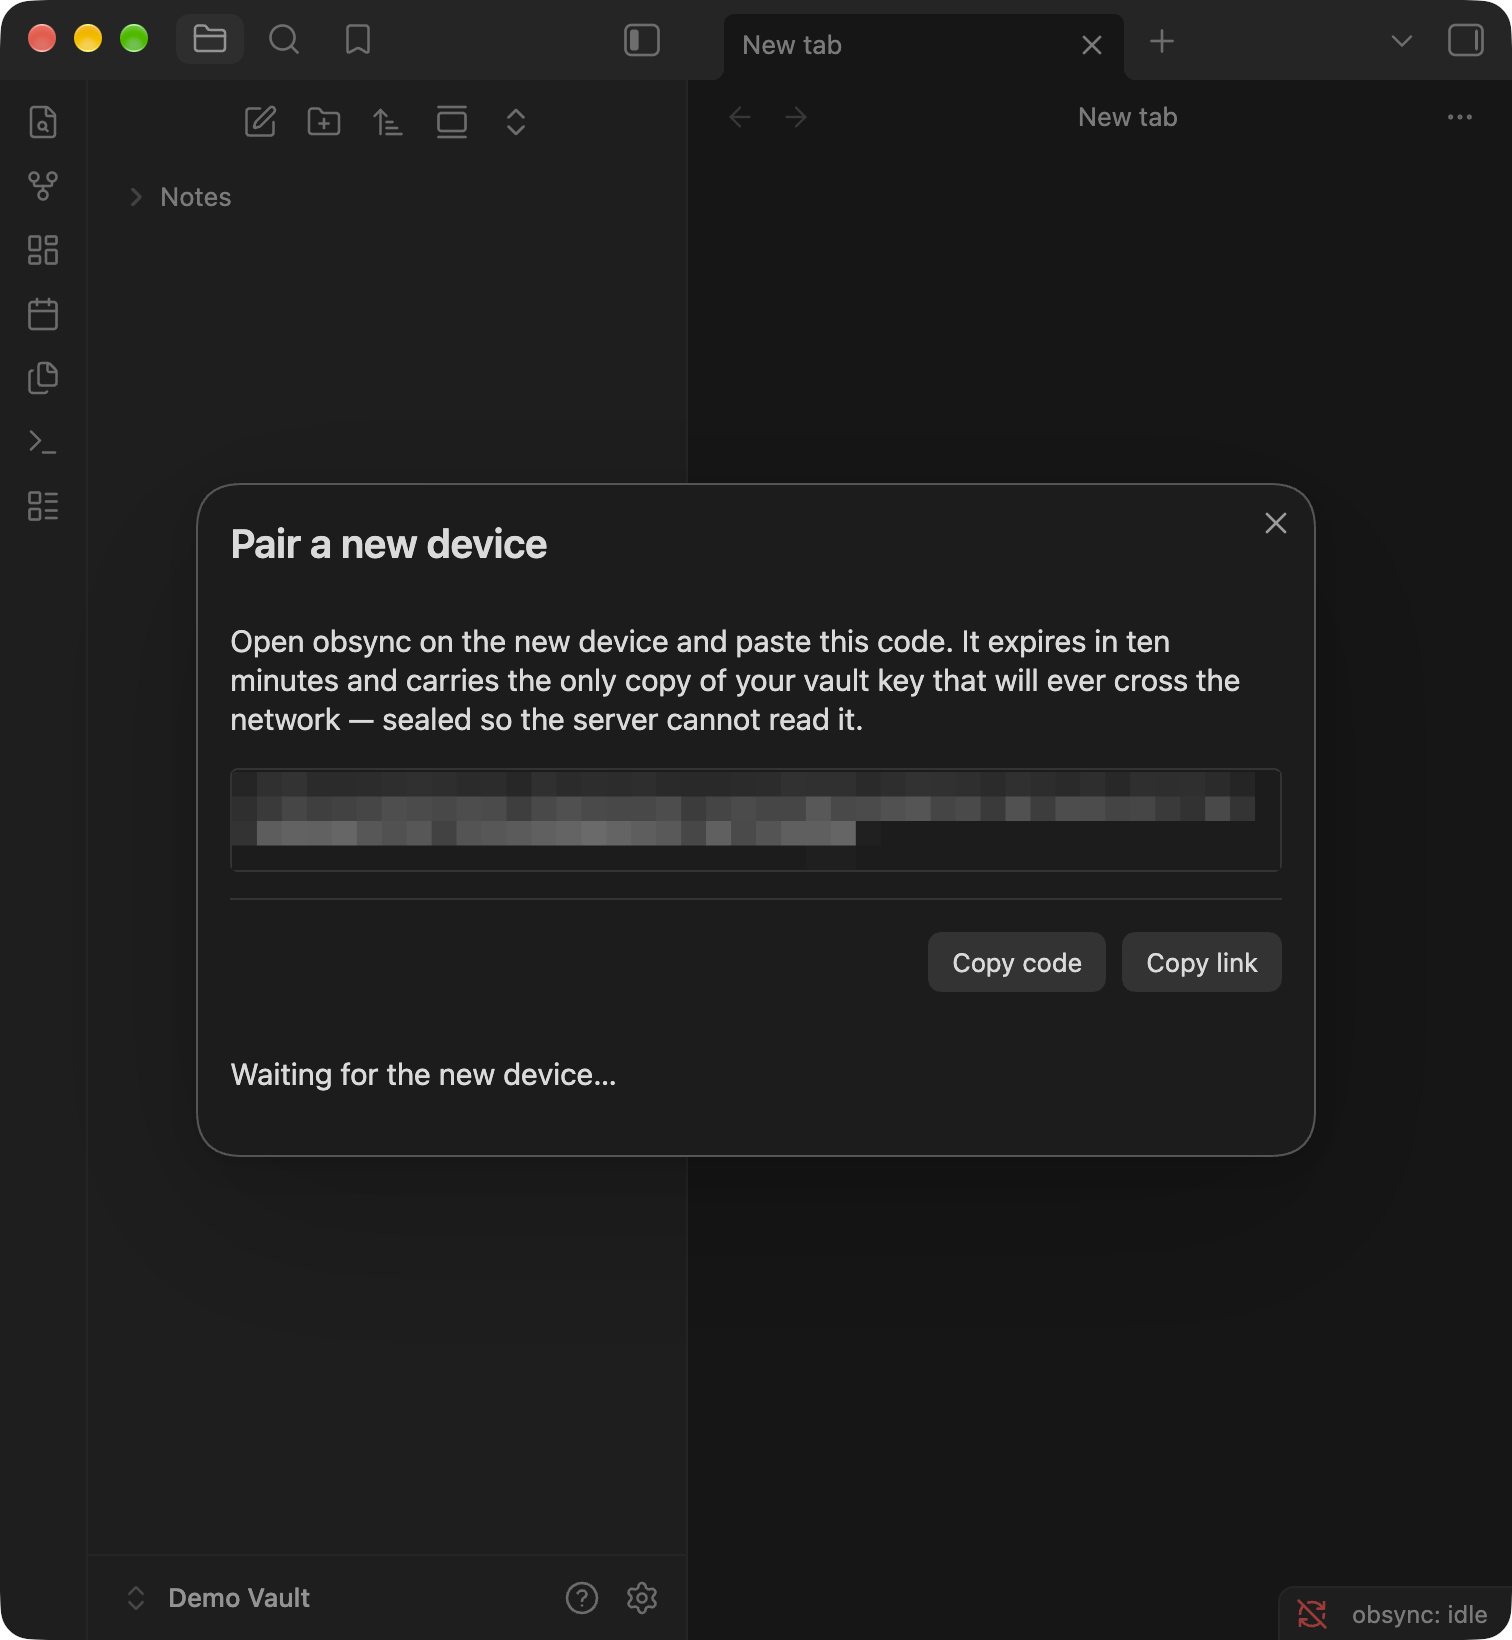
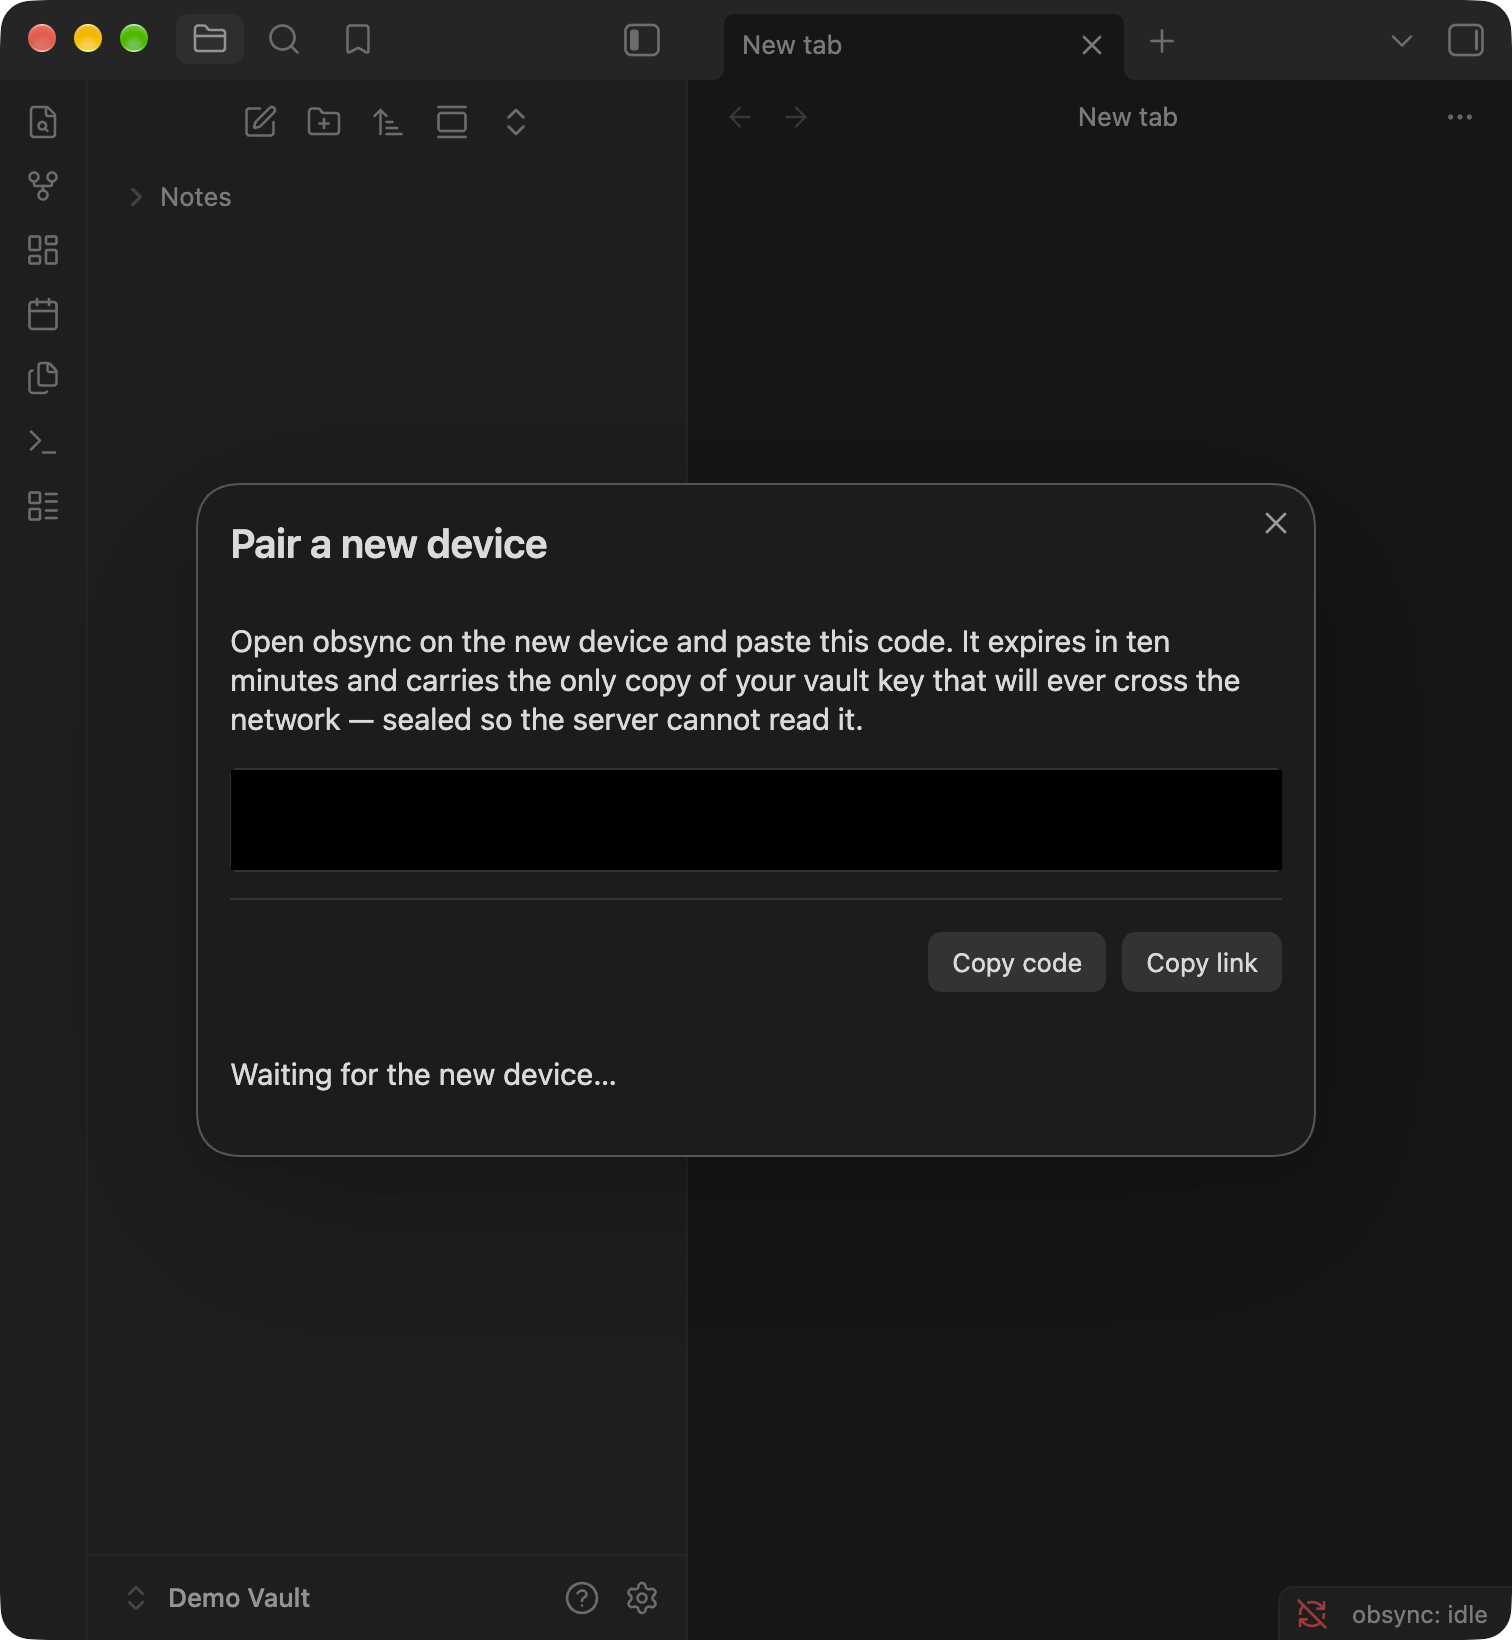
fix: complete privacy repair in legacy captures and product attribution
The replacement-head review found three older captures outside the first
repair set and personal attribution still present in product metadata.
Mask four author-name fields and replace recovery/pairing pixelation with
opaque rectangles. Preserve every capture and every visible pixel outside
the masks; verify CRCs, decoded colors and metadata-free exports. Use project
contributors in the manifest and site author fields, preserving license
attribution and the mandated Git identity. Document the remaining finding map
and the replacement-device evidence's mixed-version scope.

The complete local make check and both secret scans pass. Strict MkDocs and
output-origin checks pass in the pinned offline Linux container. All 41
committed documentation PNGs lack identifying metadata chunks. The three
masked exports were visually inspected and match across both release branches.
Production code and tests are unchanged. The rebuilt JavaScript bundle stays
7a937b63cbcf8f7bb536a45a0c40b34aeb3c066bb57817dfa99a46acd3006848.
The distributed manifest changes only its author field. Native observations
retain their original build scope; no independent approval is claimed.

Accounting: six files, +36/-4, including three PNGs.

- GPT-6

Changed region(s): [[0.1554, 0.4665, 0.8704, 0.5287]]

diff --git a/docs/validation-runs/2026-09-24-screenshot-privacy.md b/docs/validation-runs/2026-09-24-screenshot-privacy.md
@@ -38,6 +38,38 @@ python3 -I -B -m unittest discover -s scripts/ci -p 'test_capture_contract.py'
 python3 -I -B -m unittest discover -s scripts/ci -p 'test_onboarding_contract.py'
 ```
 
-This repair does not change product attribution, mandated commit identity,
-or protected history. Earlier immutable revisions retain their historical
+The initial repair did not change product attribution, mandated commit
+identity, or protected history. Earlier immutable revisions retain their historical
 bytes; current evidence links must point to this repaired revision.
+
+## Remaining inventory repair, 2026-09-25
+
+The [replacement-head review](https://github.com/snaraj/obsync/pull/133#issuecomment-5828038509)
+identified three older captures outside the original named set. Their
+observed UI and device/version scope remain unchanged:
+
+- `docs/captures/01-install-from-directory.png`: four author-name fields
+  now have opaque masks.
+- `docs/captures/03-recovery-phrase.png`: both columns of recovery material
+  now have opaque masks in place of pixelation; word numbers and verification
+  controls remain visible.
+- `docs/assets/pair-new-device.png`: the pairing-material field now has an
+  opaque mask in place of pixelation; instructions and controls remain visible.
+
+Each export contains only `IHDR`, `IDAT` and `IEND`. CRC/decode checks pass,
+every visible pixel outside the masks is unchanged, and the complete masked
+exports were visually inspected. Indexed-color captures were expanded to RGB
+without changing their displayed colors. No sensitive content was recovered.
+
+The manifest's author and the documentation site's author now name the
+project's contributors. Required license attribution and commit identity
+remain intact. The predecessor PR's replacement-device link points to the
+sanitized successor record where that evidence exists, retaining its exact
+1.1.2 desktop / 1.1.3 phone scope.
+
+The complete local gate and both secret scans pass after the follow-up.
+Strict MkDocs and output-origin checks pass with the pinned offline Linux
+container. The complete PNG inventory remains free of ICC, EXIF, XMP and text
+metadata. The JavaScript bundle is unchanged; the distributed manifest carries
+only the project-attribution change. This is author evidence, not a new native
+acceptance or independent verdict.
